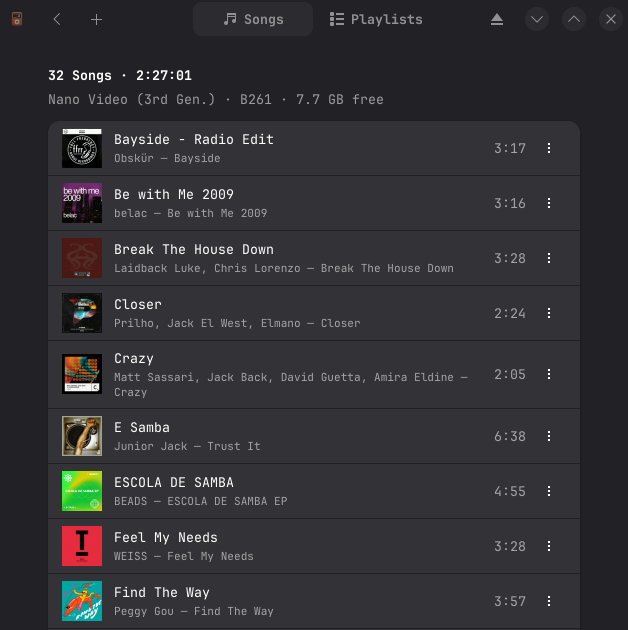
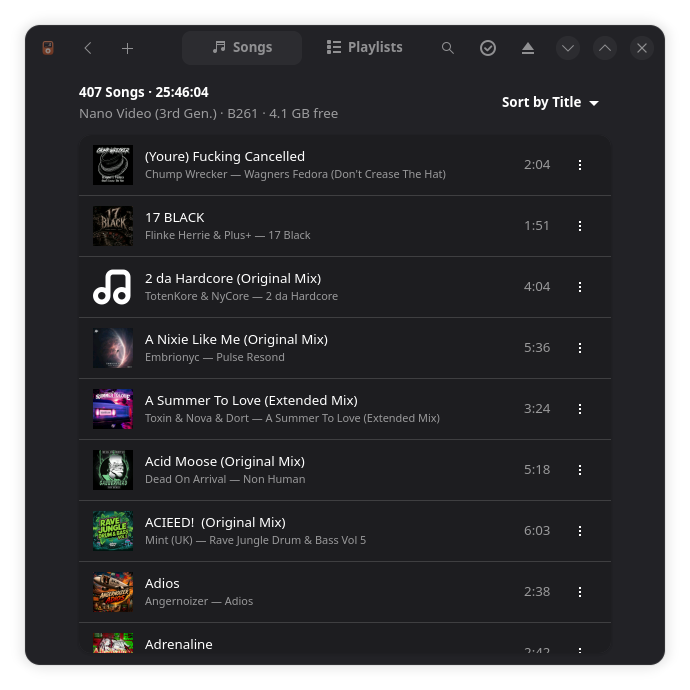
Add new screenshots to the README
Two screenshots of the song list, one of them searching, now sit at the
top of the README. The new songs.png replaces the old one.

The app store listing (the metainfo) still points at the old screenshot
of the v0.3.0 tag. It gets the new ones with the next release.

diff --git a/README.md b/README.md
@@ -6,6 +6,11 @@ I wanted to use my old iPod nano again, but there's no good way to get music
 onto it from Linux anymore, so I made this. You plug in your iPod, drop some
 music on the window, and that's it.
 
+<p align="center">
+  <img src="data/screenshots/songs.png" width="340" alt="The songs on an iPod nano">
+  <img src="data/screenshots/search.png" width="340" alt="Searching the songs">
+</p>
+
 ## What it does
 
 - Add songs or whole album folders by dragging them onto the window (or with
